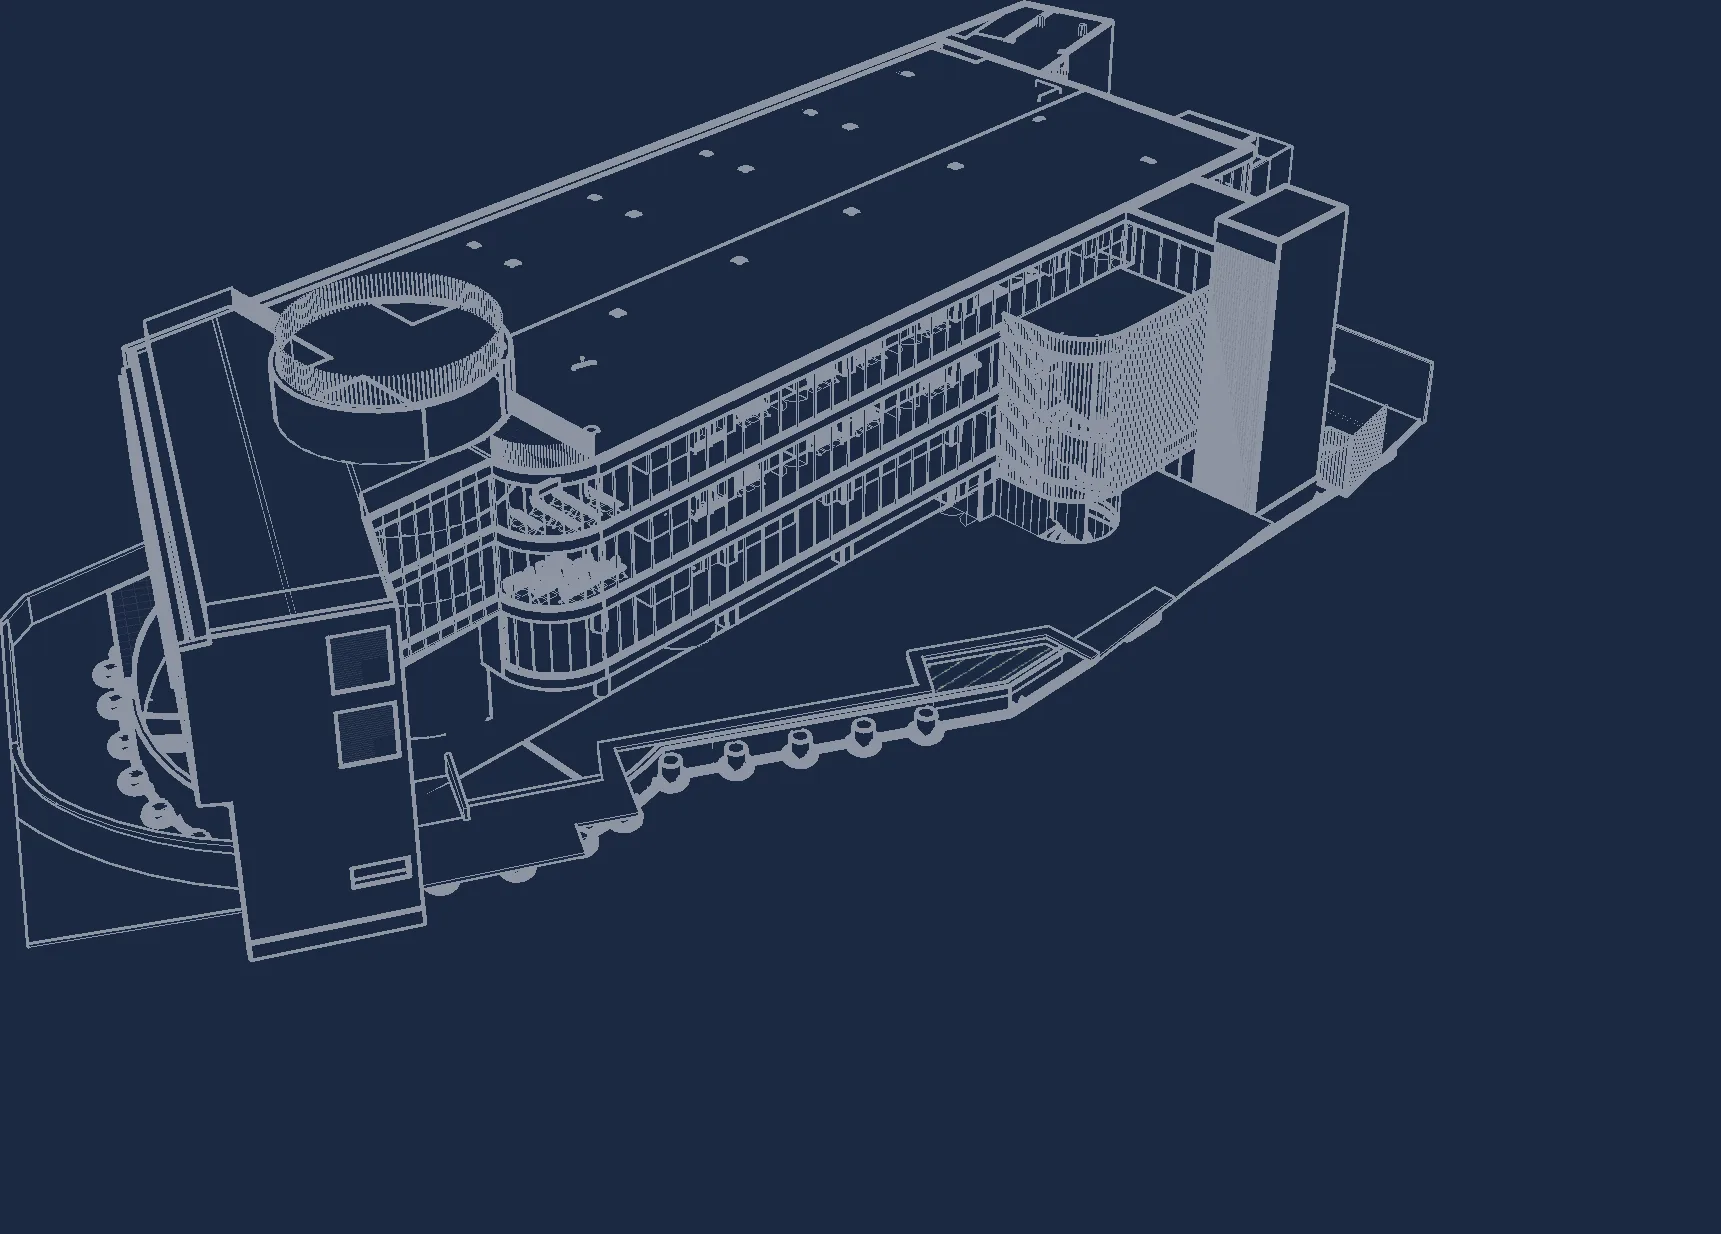
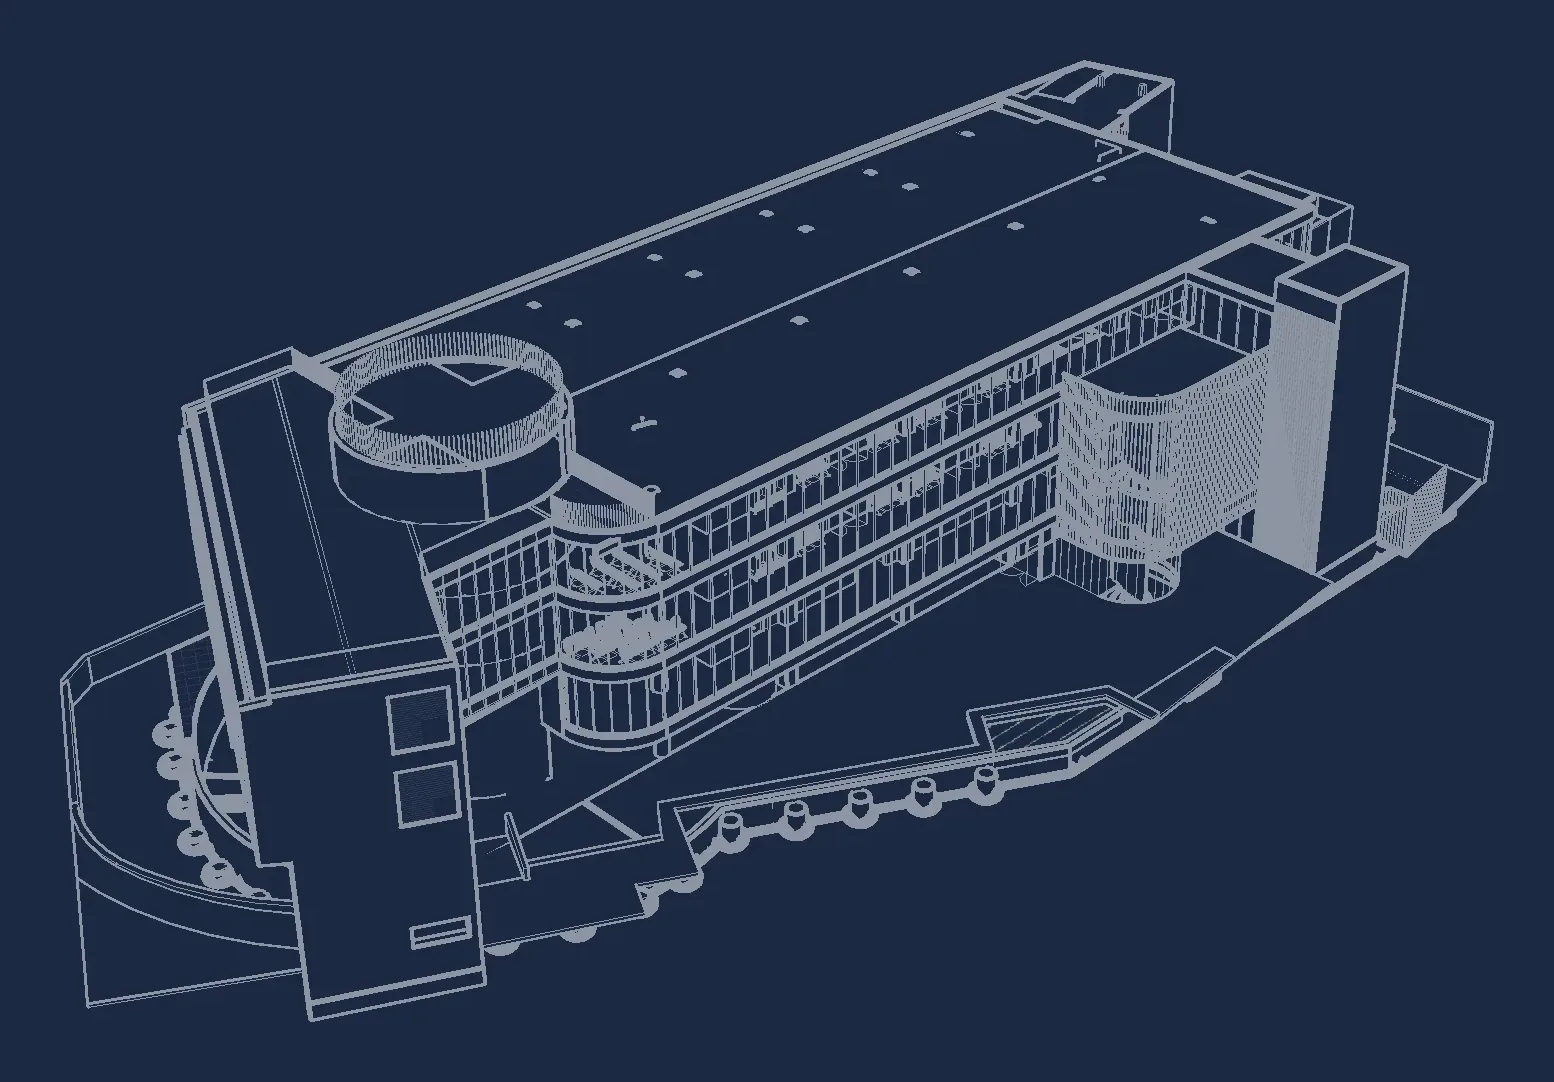
Clínica: portada centrada tras quitar las sombras
El recorte original incluía la zona de sombra; se recorta de nuevo sobre
el fondo azul y se centra con margen parejo. laminas.js lo hace al
generar la portada cuando sinSombras está activo. IMG_V 2026-11-18d.

Claude-Session: https://claude.ai/code/session_01Dnq6nJeuR1o8e4q3ZrPM81

diff --git a/tools/brandkit/laminas.js b/tools/brandkit/laminas.js
@@ -8,7 +8,7 @@
 const fs = require("fs");
 const path = require("path");
 const sharp = require("sharp");
-const { aAzul } = require("./fondo-azul");
+const { aAzul, AZUL } = require("./fondo-azul");
 
 const CFG = JSON.parse(fs.readFileSync(process.argv[2], "utf8"));
 const ROOT = path.resolve(__dirname, "..", "..");
@@ -48,7 +48,12 @@ const etiqueta = (x, y, texto) =>
   // portada: una sola vista, a resolución completa
   if (CFG.portada) {
     const buf = await vista(CFG.portada);
-    const azul = await (await aAzul(buf, { sinSombras: CFG.sinSombras, intensidad: CFG.intensidad ?? 1 })).png().toBuffer();
+    let azul = await (await aAzul(buf, { sinSombras: CFG.sinSombras, intensidad: CFG.intensidad ?? 1 })).png().toBuffer();
+    // sin sombras queda fondo sobrante donde estaban: se recorta de nuevo y se centra con margen parejo
+    if (CFG.sinSombras) {
+      azul = await sharp(azul).trim({ background: AZUL, threshold: 30 })
+        .extend({ top: 60, bottom: 60, left: 60, right: 60, background: AZUL }).png().toBuffer();
+    }
     await sharp(azul).resize({ width: 1800, withoutEnlargement: true }).webp({ quality: 82 })
       .toFile(path.join(OUT_IMG, "portada.webp"));
     console.log(`portada     ${CFG.portada}`);

diff --git a/src/data/proyectos.js b/src/data/proyectos.js
@@ -4,7 +4,7 @@ import clinica from "./clinica.json";
 // Versión de las imágenes: se agrega como ?v= a cada ruta para que el navegador y la caché
 // de Cloudflare no sigan mostrando la imagen anterior cuando se regeneran con el mismo nombre.
 // Subir el valor cada vez que se reprocesen las láminas o portadas.
-const IMG_V = "2026-11-18c";
+const IMG_V = "2026-11-18d";
 const v = (ruta) => `${ruta}?v=${IMG_V}`;
 const conVersion = (vistas) => vistas.map((x) => ({ ...x, src: v(x.src), thumb: v(x.thumb) }));
 
